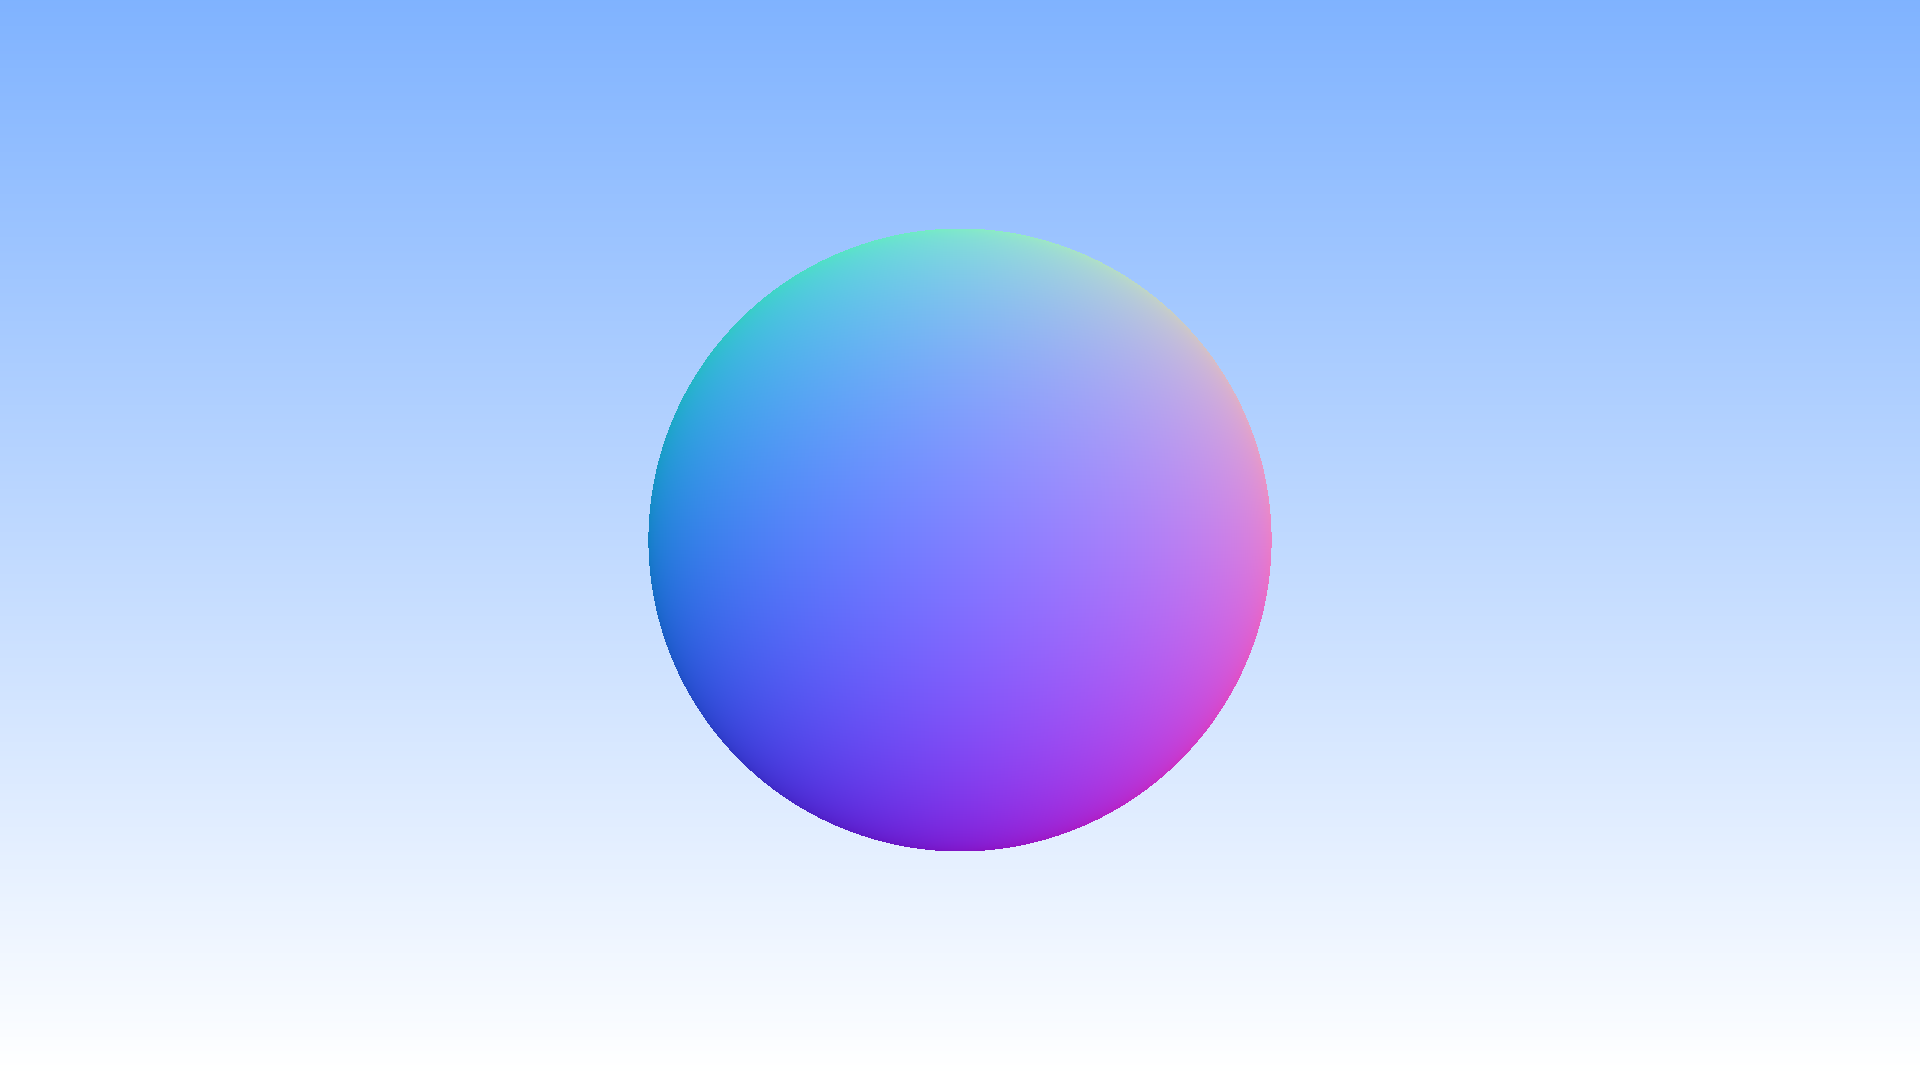
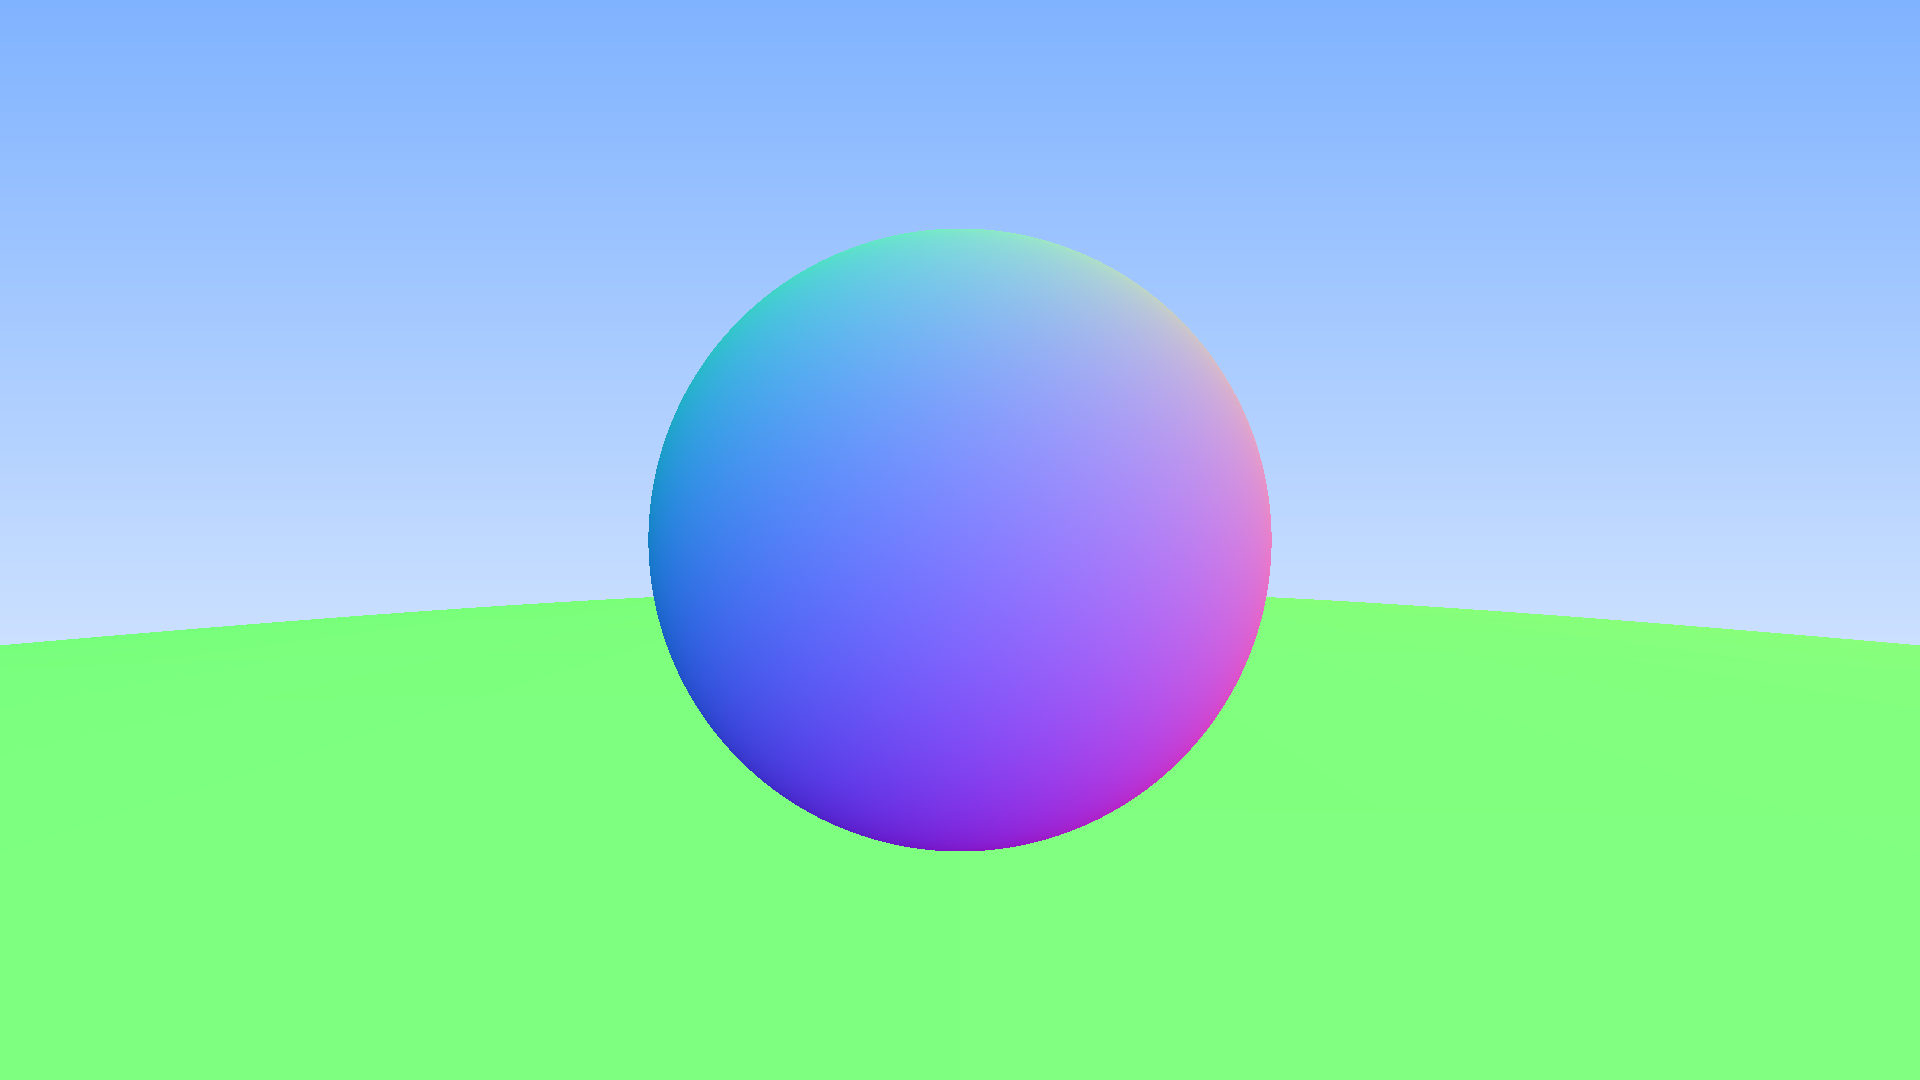
Restructure code.
Following the structure of the Raytracing In One Weekend book, will
review this once feature parity with the book's final result is
reached.

diff --git a/source/main.cpp b/source/main.cpp
@@ -1,13 +1,11 @@
-#include "stb_image_write.h"
-
 #include <cstdint>
 #include <iostream>
-#include <memory>
 #include <optional>
-#include <string_view>
-#include <vector>
 
+#include "hittable_list.h"
+#include "image.h"
 #include "ray.h"
+#include "sphere.h"
 #include "vec3.h"
 
 template<typename T>
@@ -16,67 +14,14 @@ T lerp(const T& from, const T& to, double t)
     return from * (1.0 - t) + to * t;
 }
 
-struct Image
+Vec3 rayColor(const Ray& r, const HittableList& scene)
 {
-    uint32_t width;
-    uint32_t height;
-    std::unique_ptr<Vec3[]> pixels;
-};
+    HitRecord hit{};
+    bool b = scene.Hit(r, 0, std::numeric_limits<double>::infinity(), hit);
 
-std::unique_ptr<Image> createImage(uint32_t width, uint32_t height)
-{
-    std::unique_ptr<Image> image = std::make_unique<Image>();
-    image->width = width;
-    image->height = height;
-    image->pixels = std::make_unique<Vec3[]>(width * height);
-    return image;
-}
-
-bool saveImage(Image& image, const std::string_view& path)
-{
-    stbi_flip_vertically_on_write(1);
-
-    uint32_t pixelCount = image.width * image.height;
-    std::vector<uint8_t> bits(pixelCount * 3);
-    uint8_t* ptr = bits.data();
-
-    for (uint32_t p = 0; p < pixelCount; ++p)
+    if (b)
     {
-        for (int i = 0; i < 3; ++i)
-        {
-            *ptr++ = static_cast<uint8_t>(255.999 * image.pixels[p].v[i]);
-        }
-    }
-
-    return !!stbi_write_png(path.data(), image.width, image.height, 3, bits.data(), image.width * 3);
-}
-
-std::optional<double> hitSphere(const Vec3& center, double radius, const Ray& r)
-{
-    Vec3 oc = r.origin - center;
-    double a = dot(r.direction, r.direction);
-    double b = 2.0 * dot(oc, r.direction);
-    double c = dot(oc, oc) - radius * radius;
-    double discriminant = b * b - 4.0 * a * c;
-
-    if (discriminant > 0.0)
-    {
-        return (-b - sqrt(discriminant) ) / (2.0 * a);
-    }
-    else
-    {
-        return std::optional<double>();
-    }
-}
-
-Vec3 rayColor(const Ray& r)
-{
-    auto hit = hitSphere(Vec3(0.0, 0.0, -1.0), 0.5, r);
-
-    if (hit)
-    {
-        Vec3 normal = normalize(r.at(hit.value()) - Vec3(0, 0, -1));
-        return (normal + Vec3(1, 1, 1)) * 0.5;
+        return (hit.n + Vec3(1, 1, 1)) * 0.5;
     }
     else
     {
@@ -89,31 +34,33 @@ int main()
 {
     constexpr uint32_t imageWidth = 1920;
     constexpr uint32_t imageHeight = 1080;
-    auto image = createImage(imageWidth, imageHeight);
-    double aspectRatio = double(imageWidth) / double(imageHeight);
+    constexpr double aspectRatio = double(imageWidth) / double(imageHeight);
+    constexpr double viewportHeight = 2.0;
+    constexpr double viewportWidth = aspectRatio * viewportHeight;
+    constexpr double focal_length = 1.0;
 
-    double viewportHeight = 2.0;
-    double viewportWidth = aspectRatio * viewportHeight;
-    double focal_length = 1.0;
-
+    Image image{ imageWidth, imageHeight };
     Vec3 origin{};
     Vec3 horizontal{ viewportWidth, 0, 0 };
     Vec3 vertical{ 0, viewportHeight, 0 };
     auto viewportOrigin = origin - horizontal / 2.0 - vertical / 2.0 - Vec3(0, 0, focal_length);
 
-    for (int j = imageHeight - 1; j >= 0; --j)
+    HittableList scene{};
+    scene.add(std::make_unique<Sphere>(Vec3(0, 0, -1), 0.5));
+    scene.add(std::make_unique<Sphere>(Vec3(0,-100.5,-1), 100));
+    for (int y = imageHeight; --y >= 0;)
     {
-        std::cerr << "\rScanlines remaining: " << j << ' ' << std::flush;
+        std::cerr << "\rScanlines remaining: " << y << ' ' << std::flush;
 
-        for (int i = 0; i < imageWidth; ++i)
+        for (int x = 0; x < imageWidth; ++x)
         {
-            double u = double(i) / (imageWidth - 1);
-            double v = double(j) / (imageHeight - 1);
+            double u = double(x) / (imageWidth - 1);
+            double v = double(y) / (imageHeight - 1);
             Ray r(origin, viewportOrigin + horizontal * u + vertical * v - origin);
-            image->pixels[i + j * imageWidth] = rayColor(r);
+            image(x, y) = rayColor(r, scene);
         }
     }
 
-    saveImage(*image, "image.png");
+    image.save("image.png");
     std::cerr << "\nDone.\n";
 }

diff --git a/source/image.cpp b/source/image.cpp
@@ -1,0 +1,60 @@
+#include "image.h"
+
+#include <cassert>
+#include <vector>
+
+#include "stb_image_write.h"
+
+Image::Image(uint32_t width, uint32_t height)
+{
+    mWidth = width;
+    mHeight = height;
+    mPixels = std::make_unique<Vec3[]>(width * height);
+}
+
+uint32_t Image::width() const
+{
+    return mWidth;
+}
+
+uint32_t Image::height() const
+{
+    return mHeight;
+}
+
+Vec3& Image::operator()(uint32_t x, uint32_t y)
+{
+    assert(x < mWidth && y < mHeight);
+    return mPixels[x + y * mWidth];
+}
+
+Vec3 Image::operator()(uint32_t x, uint32_t y) const
+{
+    assert(x < mWidth && y < mHeight);
+    return mPixels[x + y * mWidth];
+}
+
+bool Image::save(const std::string_view& path) const
+{
+    stbi_flip_vertically_on_write(1);
+
+    std::vector<uint8_t> bits(mWidth * mHeight * 3);
+    uint8_t* ptr = bits.data();
+
+    for (uint32_t y = 0; y < mHeight; ++y)
+    {
+        for (uint32_t x = 0; x < mWidth; ++x)
+        {
+            Vec3 p = operator()(x, y);
+
+            for (int i = 0; i < 3; ++i)
+            {
+                ptr[i] = static_cast<uint8_t>(255.0 * p.v[i] + 0.5);
+            }
+
+            ptr += 3;
+        }
+    }
+
+    return !!stbi_write_png(path.data(), mWidth, mHeight, 3, bits.data(), mWidth * 3);
+}

diff --git a/source/sphere.cpp b/source/sphere.cpp
@@ -1,0 +1,36 @@
+#include "sphere.h"
+
+#include <cmath>
+
+bool Sphere::Hit(const Ray& r, double tMin, double tMax, HitRecord& hit) const
+{
+    Vec3 oc = r.origin - center;
+    double a = dot(r.direction, r.direction);
+    double halfb = dot(oc, r.direction);
+    double c = dot(oc, oc) - radius * radius;
+    double discriminant = halfb * halfb - a * c;
+
+    if (discriminant < 0)
+    {
+        return false;
+    }
+
+    double sqrtd = std::sqrt(discriminant);
+    double root = (-halfb - sqrtd) / a;
+
+    if (root < tMin || root >= tMax)
+    {
+        root = (-halfb + sqrtd) / a;
+    }
+
+    if (root < tMin || root >= tMax)
+    {
+        return false;
+    }
+
+    hit.t = root;
+    hit.p = r.at(hit.t);
+    hit.n = (hit.p - center) / radius;
+
+    return true;
+}

diff --git a/source/image.h b/source/image.h
@@ -1,0 +1,32 @@
+#pragma once
+
+#include <cstdint>
+#include <memory>
+#include <string_view>
+
+#include "vec3.h"
+
+class Image
+{
+public:
+    Image() = default;
+    Image(uint32_t width, uint32_t height);
+    Image(const Image&) = delete;
+    Image(Image&&) = default;
+
+    Image& operator=(const Image&) = delete;
+    Image& operator=(Image&&) = default;
+
+    uint32_t width() const;
+    uint32_t height() const;
+
+    Vec3& operator()(uint32_t x, uint32_t y);
+    Vec3 operator()(uint32_t x, uint32_t y) const;
+
+    bool save(const std::string_view& path) const;
+
+private:
+    uint32_t mWidth;
+    uint32_t mHeight;
+    std::unique_ptr<Vec3[]> mPixels;
+};

diff --git a/source/hittable_list.cpp b/source/hittable_list.cpp
@@ -1,0 +1,29 @@
+#include "hittable_list.h"
+
+void HittableList::clear()
+{
+    mObjects.clear();
+}
+
+void HittableList::add(std::unique_ptr<IHittable> object)
+{
+    mObjects.push_back(std::move(object));
+}
+
+bool HittableList::Hit(const Ray& r, double tMin, double tMax, HitRecord& hit) const
+{
+    bool result = false;
+    HitRecord test{};
+
+    for (const auto& object : mObjects)
+    {
+        if (object->Hit(r, tMin, tMax, test))
+        {
+            result = true;
+            tMax = test.t;
+            hit = test;
+        }
+    }
+
+    return result;
+}

diff --git a/source/hittable_list.h b/source/hittable_list.h
@@ -1,0 +1,20 @@
+#pragma once
+
+#include "hittable.h"
+
+#include <memory>
+#include <vector>
+
+class HittableList : public IHittable
+{
+public:
+    HittableList() = default;
+
+    void clear();
+    void add(std::unique_ptr<IHittable> object);
+
+    bool Hit(const Ray& r, double tMin, double tMax, HitRecord& hit) const override;
+
+private:
+    std::vector<std::unique_ptr<IHittable>> mObjects;
+};

diff --git a/source/sphere.h b/source/sphere.h
@@ -1,0 +1,15 @@
+#pragma once
+
+#include "hittable.h"
+
+class Sphere : public IHittable
+{
+public:
+    Vec3 center;
+    double radius;
+
+    Sphere() = default;
+    Sphere(const Vec3& center_, double radius_) : center(center_), radius(radius_) {}
+
+    virtual bool Hit(const Ray& r, double tMin, double tMax, HitRecord& hit) const override;
+};

diff --git a/source/hittable.h b/source/hittable.h
@@ -1,0 +1,19 @@
+#pragma once
+
+#include "ray.h"
+#include "vec3.h"
+
+struct HitRecord
+{
+    Vec3 p;
+    Vec3 n;
+    double t;
+};
+
+class IHittable
+{
+public:
+    virtual ~IHittable() {};
+
+    virtual bool Hit(const Ray& r, double tMin, double tMax, HitRecord& hit) const = 0;
+};
